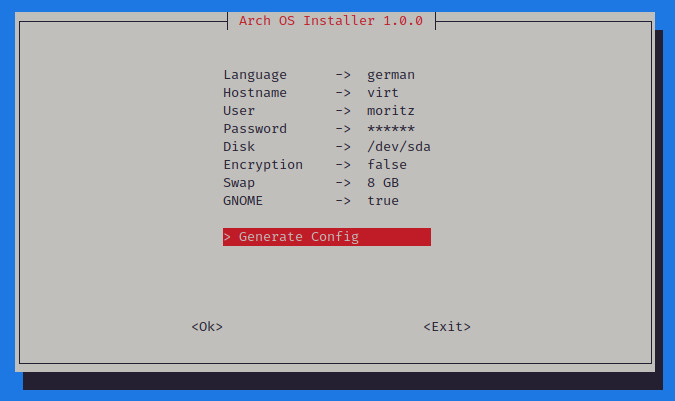
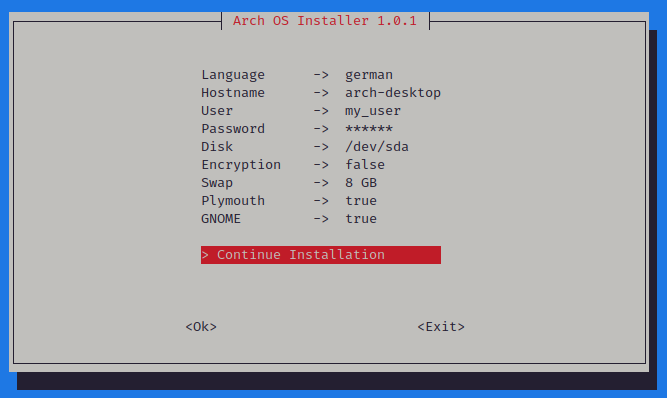
1.0.1
* 1.0.1

diff --git a/docs/README.md b/docs/README.md
@@ -67,7 +67,7 @@ Installs a Arch Linux Distribution including GNOME, preinstalled Paru as AUR Hel
 - Installer Error Handling
 - Tested in GNOME Boxes
 - Shellcheck approved
-- [Bootsplash](https://github.com/murkl/plymouth-theme-arch-elegant)
+- [Bootsplash](https://github.com/murkl/plymouth-theme-arch-elegant) (optional)
 
 ## Installation
 
@@ -88,14 +88,16 @@ Installs a Arch Linux Distribution including GNOME, preinstalled Paru as AUR Hel
 
 ### 3. Boot from USB Device
 
-- Load Keyboard Layout: `loadkeys de-latin1` (use prefered language)
-- Connect to WLAN (optional), run `iwctl` and type into console: `station wlan0 connect "SSID"` and `exit`
-- Run **Arch OS Installer** with: `curl -Ls http://arch.webhop.me | bash`
+- Load prefered keyboard layout (optional): `loadkeys de-latin1`
+- Connect to WLAN (optional): `iwctl station wlan0 connect "SSID"`
+- Run **Arch OS Installer**: `curl -Ls http://arch.webhop.me | bash`
 - Installation finished
 
 ### Installation Properties (optional)
 
-If the file `installer.conf` exists in the same dir as the script, it will sourced automatically on startup and the values will set as defaults for Arch Linux installation setup menu. After pressing `> Generate Config`, the `installer.conf` will be generated from the setup menu properties (except `ARCH_PASSWORD` for better security).
+If the file `installer.conf` exists in the same dir as the script, it will sourced automatically on startup and the values will set as defaults for Arch Linux installation setup menu. After pressing `> Continue Installation`, the `installer.conf` will be generated from the setup menu properties (except `ARCH_PASSWORD` for better security).
+
+**Note:** The `installer.conf` will copied to the new user's home directory during installation.
 
 #### Add another Language
 
@@ -104,25 +106,58 @@ If you want to add another language, set `ARCH_LANGUAGE='custom'` and modify the
 #### Example of `installer.conf`
 
 ```
-# System Setup
+# Hostname
 ARCH_HOSTNAME='arch-desktop'
-ARCH_USERNAME='my_user'
-ARCH_DISK='/dev/sda'
-ARCH_BOOT_PARTITION='/dev/sda1'
-ARCH_ROOT_PARTITION='/dev/sda2'
-ARCH_ENCRYPTION_ENABLED='false'
-ARCH_SWAP_SIZE='8'
-ARCH_GNOME='true'
 
-# Language & Location
+# User
+ARCH_USERNAME='my_user'
+
+# Disk
+ARCH_DISK='/dev/sda'
+
+# Boot partition
+ARCH_BOOT_PARTITION='/dev/sda1'
+
+# Root partition
+ARCH_ROOT_PARTITION='/dev/sda2'
+
+# Disk encryption
+ARCH_ENCRYPTION_ENABLED='false'
+
+# Swap: 0 or null = disable
+ARCH_SWAP_SIZE='8'
+
+# Plymouth enabled
+ARCH_PLYMOUTH_ENABLED='true'
+
+# GNOME Desktop: false = minimal arch
+ARCH_GNOME_ENABLED='true'
+
+# Language: change to 'custom' to use custom language properties
 ARCH_LANGUAGE='custom'
-ARCH_REFLECTOR_COUNTRY='Germany,France'
+
+# Timezone: ls /usr/share/zoneinfo/**
 ARCH_TIMEZONE='Europe/Berlin'
-ARCH_LOCALE_LANG='en_US.UTF-8'
-ARCH_LOCALE_GEN_LIST=('en_US.UTF-8' 'UTF-8')
-ARCH_VCONSOLE_KEYMAP='en-latin1-nodeadkeys'
+
+# Country used by reflector. Leave empty to disable
+ARCH_REFLECTOR_COUNTRY='Germany,France'
+
+# Locale: ls /usr/share/i18n/locales
+ARCH_LOCALE_LANG='de_DE'
+
+# Locale List: cat /etc/locale.gen
+ARCH_LOCALE_GEN_LIST=('de_DE.UTF-8 UTF-8' 'de_DE ISO-8859-1' 'de_DE@euro ISO-8859-15' 'en_US.UTF-8 UTF-8')
+
+# Console keymap: localectl list-keymaps
+ARCH_VCONSOLE_KEYMAP='de-latin1-nodeadkeys'
+
+# Console font: find /usr/share/kbd/consolefonts/*.psfu.gz
 ARCH_VCONSOLE_FONT='eurlatgr'
-ARCH_KEYBOARD_LAYOUT='en'
+
+# X11 keyboard layout: localectl list-x11-keymap-layouts
+ARCH_KEYBOARD_LAYOUT='de'
+
+# X11 keyboard variant: localectl list-x11-keymap-variants
 ARCH_KEYBOARD_VARIANT='nodeadkeys'
 ```
 
@@ -148,22 +183,14 @@ For a robust & stable Arch Linux experience, install as few additional packages 
 - Use [exa](https://archlinux.org/packages/extra/x86_64/exa/) as colorful `ls` replacement
 - Use [bat](https://archlinux.org/packages/extra/x86_64/bat/) as colorful `man` replacement
 - Use [gamemode](https://wiki.archlinux.org/title/Gamemode) when playing games
-
-### GNOME Shell Extensions (optional)
-
-- https://extensions.gnome.org/extension/3843/just-perfection/
-- https://extensions.gnome.org/extension/3193/blur-my-shell/
-- https://extensions.gnome.org/extension/1010/archlinux-updates-indicator/
-- https://extensions.gnome.org/extension/1873/disable-unredirect-fullscreen-windows/ (may fix some issues)
-
-### Desktop Customization (optional)
-
-- Icon Theme: https://github.com/vinceliuice/Tela-icon-theme
-- Cursor Theme: https://github.com/alvatip/Nordzy-cursors
-- Desktop Font: https://archlinux.org/packages/extra/any/inter-font/
-- Firefox Theme: https://github.com/rafaelmardojai/firefox-gnome-theme
-- Nautilus Folder Color: https://aur.archlinux.org/packages/folder-color-nautilus
-- Libadwaita GTK Theme: https://github.com/lassekongo83/adw-gtk3
+- Wallpaper: [link](./wallpaper.png)
+- Desktop Font: [inter-font](https://archlinux.org/packages/extra/any/inter-font/)
+- Desktop Theme: [adw-gtk3](https://github.com/lassekongo83/adw-gtk3)
+- Icon Theme: [tela-icon-theme](https://github.com/vinceliuice/Tela-icon-theme)
+- Cursor Theme: [nordzy-cursors](https://github.com/alvatip/Nordzy-cursors)
+- Firefox Theme: [firefox-gnome-theme](https://github.com/rafaelmardojai/firefox-gnome-theme)
+- Nautilus Extensions: [folder-color-nautilus](https://aur.archlinux.org/packages/folder-color-nautilus)
+- GNOME Extensions: [archlinux-updates-indicator](https://extensions.gnome.org/extension/1010/archlinux-updates-indicator/), [just-perfection](https://extensions.gnome.org/extension/3843/just-perfection/), [blur-my-shell](https://extensions.gnome.org/extension/3193/blur-my-shell/)
 
 ## Rescue & Recovery
 
@@ -200,8 +227,8 @@ _**Example**_
 ## Technical Info
 
 <div align="center">
-<p><img src="screenshots/neofetch.png" /></p>
-<p><img src="screenshots/apps.png" /></p>
+<p><img src="screenshots/neofetch.png" width="90%" /></p>
+<p><img src="screenshots/apps.png" width="90%" /></p>
 </div>
 
 ### Core Packages
